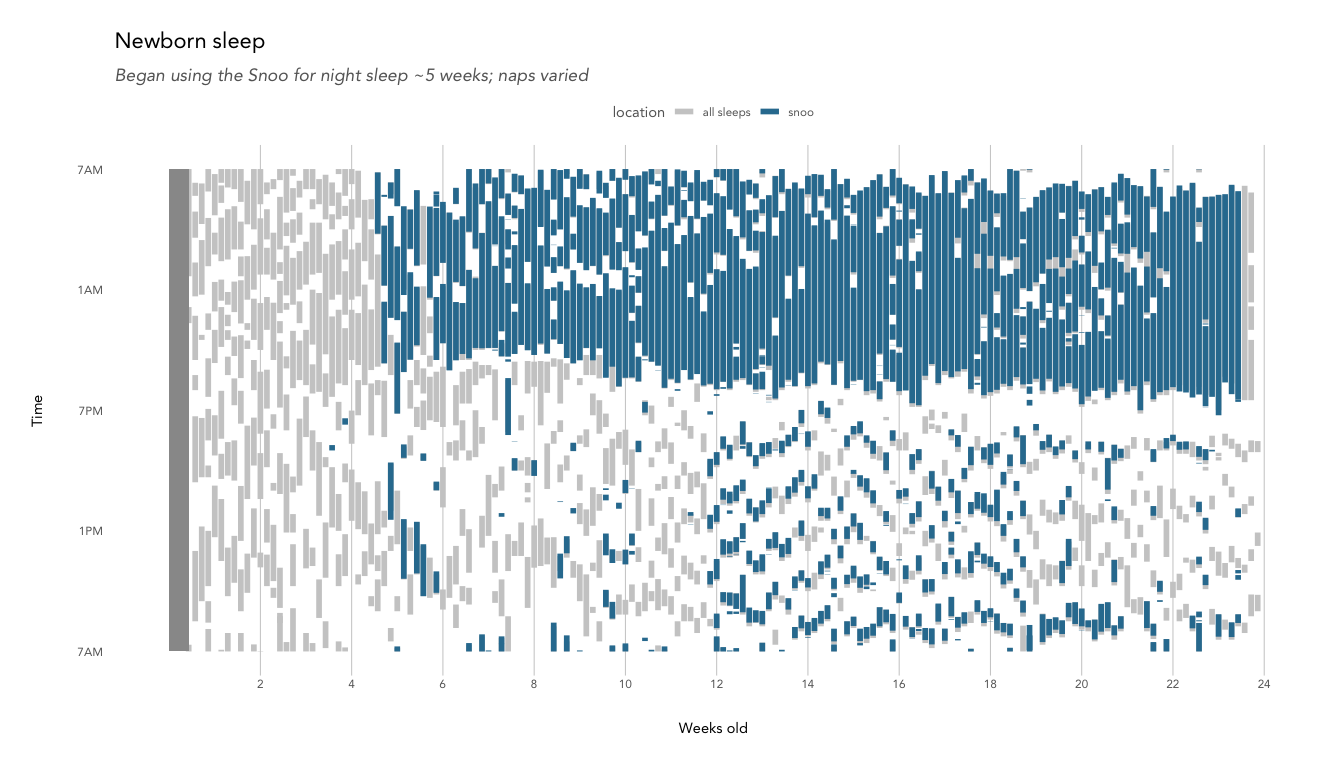
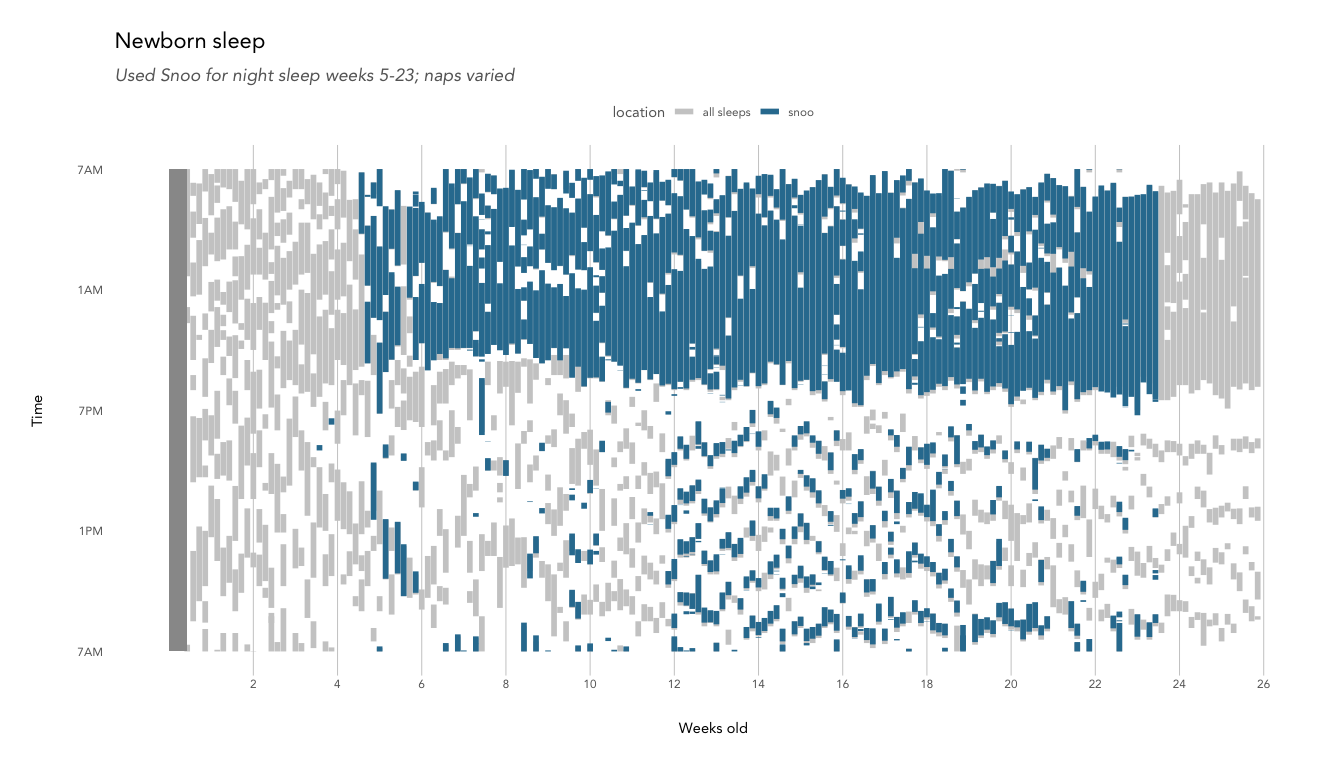
update thru 6 mo

Changed region(s): [[0.125, 0.2188, 0.9375, 0.875], [0.0938, 0.0938, 0.4375, 0.125]]

diff --git a/sleep/baby_sleep.md b/sleep/baby_sleep.md
@@ -1,4 +1,4 @@
-Newborn sleep
+Baby Sleep: The First 6 Months
 ================
 
 ``` r
@@ -20,20 +20,17 @@ the [Feed Baby
 app](https://apps.apple.com/us/app/feed-baby-breastfeeding-app/id868611155)
 to track diaper changes, feeds, sleep, weight, and so on, and we
 immediately traded in the pen + paper tracker provided by the hospital
-for a digital tracker. As a data nerd, I also assumed I’d be able to use
-the meticulously tracked data to better understand my baby and maybe
-even figure out how to make her sleep longer (LOL). *Narrator: she did
-not.*
+for a digital tracker.
 
-TL;DR: Time is the biggest predictor for improved baby sleep, though
-development isn’t linear. Type A parents: you just have to ride this one
-out (or get lucky with a naturally great sleeper).
+As a data nerd, I also assumed I’d be able to use the meticulously
+tracked data to better understand my baby, and maybe even figure out how
+to make her sleep longer. \[Narrator: She did not.\]
 
-``` r
-knitr::include_graphics("images/feedbaby_screenshot.png")
-```
+We learned a lot of lessons along the way, but ultimately, it just took
+time. Here’s a summary of our baby’s sleep development during her first
+6 months.
 
-<img src="images/feedbaby_screenshot.png" width="250px" />
+### Feed Baby
 
 The app also has a feature that lets you download the data as several
 .csv files (one for sleep, one for feeds, etc). Here’s a look at the
@@ -43,7 +40,7 @@ The app also has a feature that lets you download the data as several
 str(feedbaby_raw)
 ```
 
-    ## 'data.frame':    1046 obs. of  5 variables:
+    ## 'data.frame':    1128 obs. of  5 variables:
     ##  $ id                            : int  2 1 3 4 5 6 7 8 9 10 ...
     ##  $ Start.Time                    : chr  "11:20PM 01-24-2020" "1:40AM 01-25-2020" "8:30AM 01-25-2020" "3:25PM 01-25-2020" ...
     ##  $ End.Time                      : chr  "12:08AM 01-25-2020" "7:20AM 01-25-2020" "12:00PM 01-25-2020" "6:42PM 01-25-2020" ...
@@ -139,7 +136,7 @@ feedbaby_sleep_processed <- preprocess_sleep(feedbaby_sleep)
 str(feedbaby_sleep_processed)
 ```
 
-    ## 'data.frame':    1091 obs. of  15 variables:
+    ## 'data.frame':    1173 obs. of  15 variables:
     ##  $ start_datetime    : POSIXct, format: "2020-01-24 23:20:00" "2020-01-25 01:40:00" ...
     ##  $ end_datetime      : POSIXct, format: "2020-01-25 00:08:00" "2020-01-25 07:20:00" ...
     ##  $ start_date        : Date, format: "2020-01-24" "2020-01-25" ...
@@ -158,22 +155,12 @@ str(feedbaby_sleep_processed)
 
 ## Newborn sleep
 
-Some important details:
+Some details:
 
-  - I was very lucky to be home with my daughter full time for 19 weeks.
-    Because of COVID-19, we started limiting social visits, errands, and
-    basically most leaving the house except for doctor appointments when
-    she was 8 weeks old. When she was 10 weeks old, a stay-at-home order
-    was enacted in Minnesota. Because we spent 99% of our time at home
-    and have no other children, we were able to let her dictate when to
-    eat, nap, play, etc., rather than trying to conform her to our
-    schedule, so her sleep is likely the best it could possibly be for
-    her\! The order ended when she was 18 weeks old, but we’ve opted to
-    keep her home outside of daycare and the occasional family visit.  
-  - She is breastfed so she needs to eat more frequently than a formula
-    or combination-fed baby.  
   - We didn’t start tracking reliably until we came home from the
-    hopsital, so those dates are greyed out.
+    hospital, so those dates are greyed out.  
+  - She is breastfed so she needs to eat more frequently than a formula
+    or combination-fed baby, which leads to more overnight wakeups.
 
 <!-- end list -->
 
@@ -189,13 +176,13 @@ feedbaby_sleep_processed %>%
   geom_rect(aes(xmin = 7, xmax = 31, ymin = 0, ymax = 3/7), fill = 'grey60') +
   scale_x_continuous(breaks = c(7,13,19,25,31), 
                      labels = c('7AM', '1PM', '7PM', '1AM', '7AM')) +
-  scale_y_continuous(breaks = c(2,4,6,8,10,12,14,16,18,20,22,24)) +
+  scale_y_continuous(breaks = seq(from = 2, to = 26, by = 2)) +
   coord_flip() +
   labs(title = 'Newborn sleep', 
        subtitle = 'Tracked using the Feed Baby app',
        x = 'Time', 
        y = 'Weeks old') +
-  scale_color_kp(palette = "cool", reverse = TRUE) +
+  scale_color_manual(values = c('#5DA9E9','#490B32')) +
   theme(panel.grid.major.x = element_line(color="grey80"),
         panel.grid.major.y = element_blank(),
         legend.position = 'top') 
@@ -203,8 +190,8 @@ feedbaby_sleep_processed %>%
 
 ![](baby_sleep_files/figure-gfm/all_sleeps-1.png)<!-- -->
 
-You can see how disordered the first few weeks were, with just about as
-much day sleep as night sleep. Luckily, her night sleep showed steady
+The first few weeks were pretty disordered, with just about as much day
+sleep as night sleep. Luckily, her night sleep showed steady
 improvements over time. While she wasn’t keen on daytime sleep, she
 didn’t have her days and nights mixed up for very long. We got our
 first glorious 5 hour stretch around week 4, and the first signs of
@@ -213,9 +200,48 @@ being able to sleep through the night between 6-8 weeks.
 From weeks 3 to 10, she averaged only two naps a day that were on the
 longer side (1-2.5 hours), and could happen at any time. No clear
 pattern emerged until about week 11, when she started taking short 30-60
-minute naps 4-5 times a day. She transitioned to 4 naps a day around 18
+minute naps 5 times a day. She transitioned to 4 naps a day around 18
 weeks, and then started to show signs of dropping to 3 naps a day around
 21 weeks.
+
+How long can she sleep at a time? The longest stretch of sleep is a good
+measure of sleep development as well as how well rested Mom and Dad are.
+
+``` r
+feedbaby_sleep_processed %>%
+  mutate(duration_hours = end_time_shift - start_time_shift) %>% 
+  group_by(start_date_shift, weeks_old, type) %>%
+  summarise(longest_stretch = max(duration_hours)) %>% 
+  ggplot(aes(x = weeks_old, y = longest_stretch)) + 
+  geom_line(aes(color = type)) +
+  geom_point(aes(color = type)) +
+  annotate('rect', xmin = (8 + 1/7), xmax = (10 + 3/7), ymin = 0, ymax = 12, alpha = 0.05, fill = '#9A031E') +
+  annotate('rect', xmin = (18 + 1/7), xmax = (21 + 6/7), ymin = 0, ymax = 12, alpha = 0.05, fill = '#9A031E') +
+  annotate('text', x = 9.285, y = 11.5, label = '8 week sleep regression') +
+  annotate('text', x = 20, y = 11.5, label = '4 month sleep regression') +
+  annotate('text', x = (24 + 1/7), y = 2.5, label = 'Transition to crib') +
+  scale_x_continuous(breaks = seq(from = 2, to = 26, by = 2)) +
+  scale_y_continuous(breaks = seq(from = 0, to = 12, by = 2), limits = c(0,12)) + 
+  labs(title = 'Longest stretch of sleep',
+       x = 'Weeks old',
+       y = 'Hours') +
+  scale_color_manual(values = c('#5DA9E9','#490B32'))
+```
+
+![](baby_sleep_files/figure-gfm/feedbaby_longest-1.png)<!-- -->
+
+Nighttime sleep duration trended up while decreasing during the day. She
+gradually expanded her longest stretch, typically the first sleep of the
+night, from ~2.5 hours in the beginning to 8 hours by week 8 or so, and
+then had a short regression, likely corresponding to a growth spurt or
+[Wonder Week](https://www.thewonderweeks.com/mental-leap-2/). At the
+same time, her naps got shorter and shorter until they lasted just a
+single sleep cycle. The [four month sleep
+regression](https://takingcarababies.com/understanding-the-dreaded-four-month-sleep-regression/)
+hit around week 18 and lasted until week 22, with sleep reverting to 2-3
+hour stretches at best. At the same time, some naps started to lengthen
+to 1 or 1.5 hours, showing that she now had the ability to link sleep
+cycles on her own.
 
 How many hours does that add up to each day?
 
@@ -227,12 +253,12 @@ feedbaby_sleep_processed %>%
   ungroup() %>%
   ggplot(aes(x = weeks_old, y = total_hours)) + 
   geom_col(aes(fill = type)) +
-  scale_x_continuous(breaks = c(2,4,6,8,10,12,14,16,18,20,22,24)) +
-  scale_y_continuous(breaks = c(2,4,6,8,10,12,14,16)) +
+  scale_x_continuous(breaks = seq(from = 2, to = 26, by = 2)) +
+  scale_y_continuous(breaks = seq(from = 2, to = 16, by = 2)) +
   labs(title = 'Total hours of sleep',
        x = 'Weeks old',
        y = 'Hours') +
-  scale_fill_kp(palette = "cool", reverse = TRUE)
+  scale_fill_manual(values = c('#5DA9E9','#490B32'))
 ```
 
 ![](baby_sleep_files/figure-gfm/feedbaby_total-1.png)<!-- -->
@@ -242,41 +268,8 @@ than the [14-17 hours per
 day](https://www.sleephealthjournal.org/article/S2352-7218\(15\)00015-7/fulltext)
 found to be typical for newborns. We expected to need to wake her up to
 eat and have her snooze anywhere, but she turned out to be a very alert
-baby\! Over time, it’s slowly shifted to be more hours at night and less
-during the day.  
-How long can she sleep at a time?
-
-``` r
-feedbaby_sleep_processed %>%
-  mutate(duration_hours = end_time_shift - start_time_shift) %>% 
-  group_by(start_date_shift, weeks_old, type) %>%
-  summarise(longest_stretch = max(duration_hours)) %>% 
-  ggplot(aes(x = weeks_old, y = longest_stretch)) + 
-  geom_line(aes(color = type)) +
-  geom_point(aes(color = type)) +
-  scale_x_continuous(breaks = c(2,4,6,8,10,12,14,16,18,20,22,24)) +
-  labs(title = 'Longest stretch of sleep',
-       subtitle = 'Feed Baby',
-       x = 'Weeks old',
-       y = 'Hours') +
-  scale_color_kp(palette = "cool", reverse = TRUE)
-```
-
-![](baby_sleep_files/figure-gfm/feedbaby_longest-1.png)<!-- -->
-
-There’s a pretty clear trend of increasing sleep duration at night and
-decreasing duration during the day. She gradually expanded her longest
-stretch, typically the first sleep of the night, from ~2.5 hours in the
-beginning to 8 by week 8 or so, and then had a bit of a regression,
-likely corresponding to a growth spurt or [Wonder
-Week](https://www.thewonderweeks.com/mental-leap-2/). At the same time,
-her naps got shorter and shorter until they lasted just a single sleep
-cycle. The [fourth month sleep
-regression](https://takingcarababies.com/understanding-the-dreaded-four-month-sleep-regression/)
-hit around week 18 and lasted until week 22, with sleep reverting to 2-3
-hour stretches at best. At the same time, some naps started to lengthen
-to 1 or 1.5 hours, showing that she now had the ability to link sleep
-cycles on her own.
+baby. Over time, it’s slowly shifted to be more hours at night and less
+during the day.
 
 #### Snoo
 
@@ -310,12 +303,12 @@ While I credit the constantly gentle motion of the Snoo for helping her
 sleep longer, the higher-motion, higher-volume white-noise “soothing”
 levels triggered by noise and movement (fussing) were never able to calm
 her back to sleep. Basically, if she woke up enough to trigger the
-soothing, she wasn’t going to go back to sleep without parent
-intervention. Because we didn’t find them to be impactful, I have
-disregarded them here. Also, the data only tells you total time spent
-soothing vs. asleep with no indication of when the soothing happened, if
-it was multiple soothing sessions, etc., so I don’t think it would be
-very useful to analyze anyway.
+soothing, she wasn’t going to go back to sleep without our intervention.
+Because we didn’t find them to be impactful, I have disregarded them
+here. Also, the data only tells you total time spent soothing vs. asleep
+with no indication of when the soothing happened, if it was multiple
+soothing sessions, etc., so I don’t think it would be very useful to
+analyze anyway.
 
 ``` r
 snoo_sleep <- snoo_raw %>%
@@ -366,10 +359,10 @@ feedbaby_sleep_processed %>%
   geom_rect(aes(xmin = 7, xmax = 31, ymin = 0, ymax = 3/7), fill = 'grey60') +
   scale_x_continuous(breaks = c(7,13,19,25,31), 
                      labels = c('7AM', '1PM', '7PM', '1AM', '7AM')) +
-  scale_y_continuous(breaks = c(2,4,6,8,10,12,14,16,18,20,22,24)) +
+  scale_y_continuous(breaks = seq(from = 2, to = 26, by = 2)) +
   coord_flip() +
   labs(title = 'Newborn sleep', 
-       subtitle = 'Began using the Snoo for night sleep ~5 weeks; naps varied',
+       subtitle = 'Used Snoo for night sleep weeks 5-23; naps varied',
        x = 'Time', 
        y = 'Weeks old') +
   scale_color_manual(values = c('grey80', '#2F7C9F')) +
@@ -396,6 +389,10 @@ the Snoo. We often had her take her first nap at home (my partner
 typically works second shift and can do daycare drop-off a little later)
 and nearly always put her down for a short catnap after I picked her up
 around 4:30.
+
+We went cold turkey and dropped the Snoo after a successful night away
+in a crib around week 23. It was followed by a week of more disrupted
+sleep while she got used to it.
 
 There is some variance between the Feed Baby and Snoo sleep sessions
 because Feed Baby is tracked manually, while the Snoo automatically
